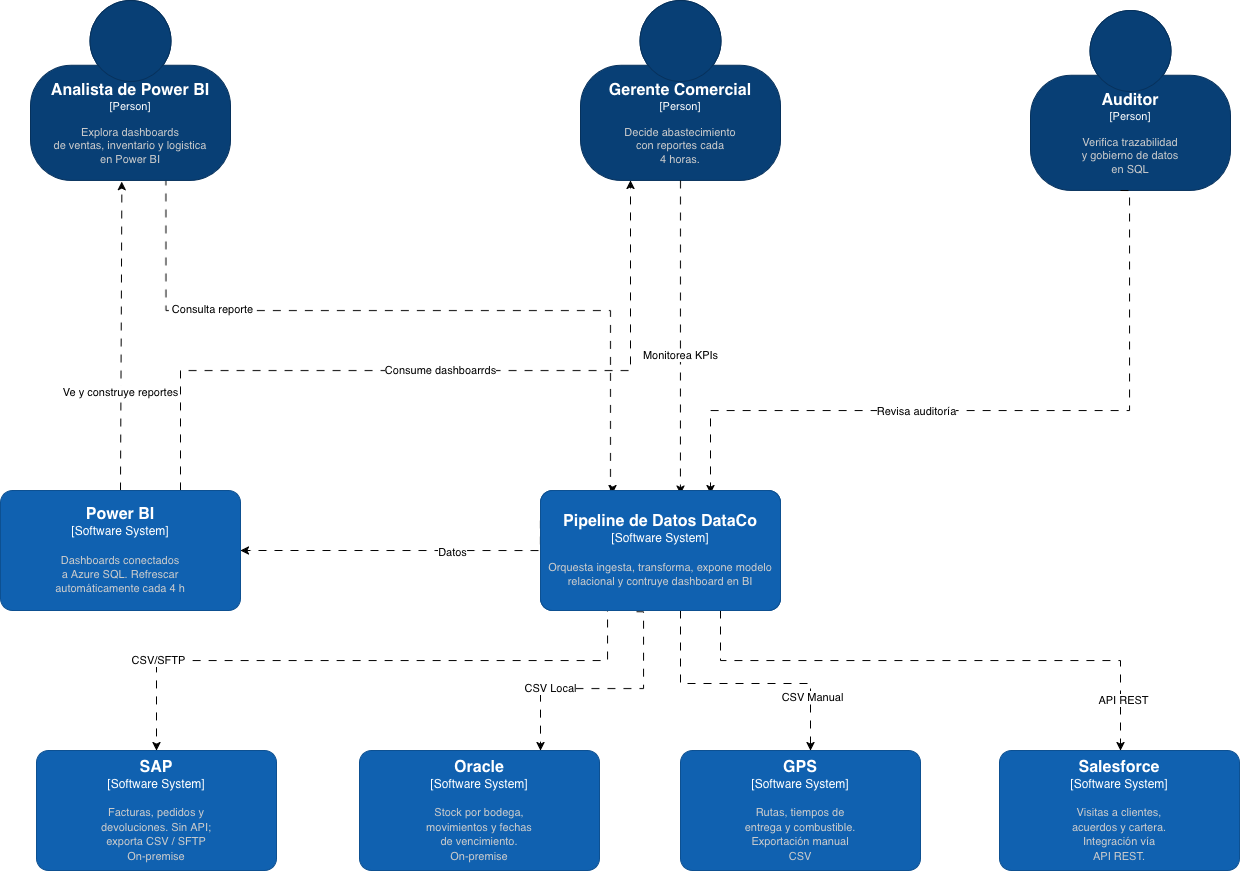
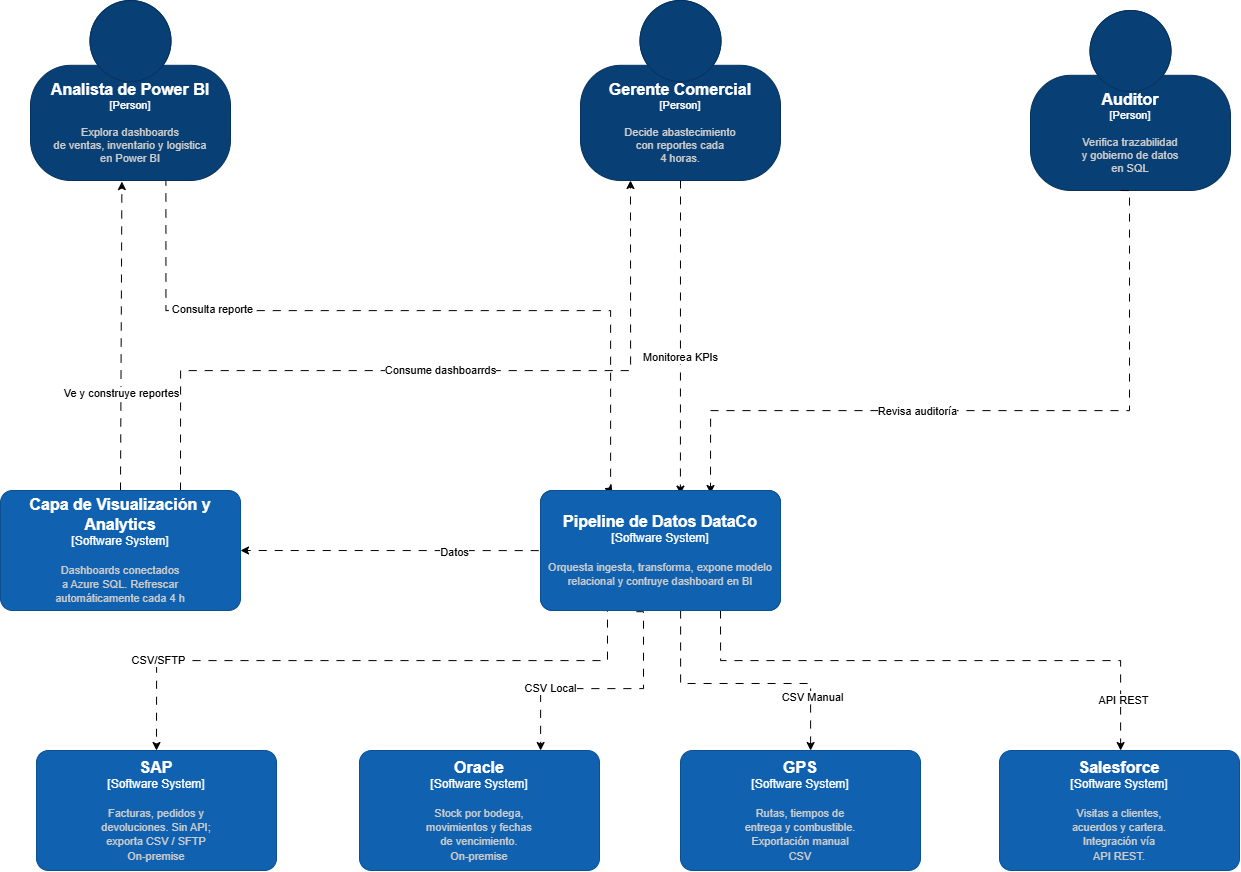
update:c4 model diagrams

diff --git a/README.md b/README.md
@@ -87,26 +87,23 @@ El diagrama de contexto muestra una visión general del Pipeline de datos de Dat
 </div>
 <br>
 
-### Analista de Power BI
-Este rol se encarga de analizar y visualizar los datos del negocio mediante dashboards e informes. Se conecta a Power BI, el cual obtiene la información desde el Pipeline de Datos DataCo, donde previamente se integran y transforman los datos provenientes de sistemas como SAP, Oracle, GPS y Salesforce. De esta manera, el analista no trabaja con datos crudos, sino con información ya limpia y estructurada.
+### Analista de Capa de Visualización y Analytics
+Este rol se encarga de analizar y visualizar los datos del negocio mediante dashboards e informes. Se conecta a la Capa de Visualización y Analytics, la cual obtiene la información desde el Pipeline de Datos DataCo, donde previamente se integran y transforman los datos provenientes de sistemas como SAP, Oracle, GPS y Salesforce. De esta manera, el analista no trabaja con datos crudos, sino con información ya limpia y estructurada.
 
-Dentro del proyecto, su función está en la etapa final del flujo de datos, ya que convierte toda la información procesada en conocimiento útil para el negocio. Sus dashboards y reportes son utilizados por el Gerente Comercial para la toma de decisiones, por lo que actúa como un puente entre los datos técnicos y el uso estratégico de la información
+Dentro del proyecto, su función está en la etapa final del flujo de datos, ya que convierte toda la información procesada en conocimiento útil para el negocio. Sus dashboards y reportes son utilizados por el Gerente Comercial para la toma de decisiones, por lo que actúa como un puente entre los datos técnicos y el uso estratégico de la información.
 
 ### Gerente Comercial
-El gerente comercial toma decisiones estratégicas basadas en información confiable y actualizada, accediendo a dashboards en Power BI donde visualiza indicadores clave del negocio como ventas e inventario.
+El gerente comercial toma decisiones estratégicas basadas en información confiable y actualizada, accediendo a dashboards en la Capa de Visualización y Analytics donde visualiza indicadores clave del negocio como ventas e inventario.
 
-Utiliza datos procesados por el Pipeline de Datos DataCo y almacenados en Azure SQL, los cuales provienen de sistemas como SAP ERP, Oracle Database y Salesforce CRM, para definir acciones comerciales y evaluar el desempeño.
+Utiliza datos procesados por el Pipeline de Datos DataCo y almacenados en el Almacén de Datos Analítico, los cuales provienen de sistemas como SAP ERP, Oracle Database y Salesforce CRM, para definir acciones comerciales y evaluar el desempeño.
 
-### Auditor 
-Este se encarga de garantizar que los datos de la empresa sean confiables y tengan trazabilidad. No consume dashboards de Power BI; su acceso es directo al sistema.
+### Auditor
+Este se encarga de garantizar que los datos de la empresa sean confiables y tengan trazabilidad. No consume dashboards de la Capa de Visualización y Analytics; su acceso es directo al sistema.
 
-**Revisar auditoría** sobre el Pipeline de Datos DataCo, verificando que cada transformación aplicada sobre los datos quede registrada y sea trazable.
-Esto incluye los logs de ejecución de Azure Data Factory y las tablas de auditoría en Azure SQL.
-Este rol es importante para el cumplimiento de las políticas internas de datos de DataCo.
+Revisar auditoría sobre el Pipeline de Datos DataCo, verificando que cada transformación aplicada sobre los datos quede registrada y sea trazable. Esto incluye los logs de ejecución del Orquestador de Datos y las tablas de auditoría en el Almacén de Datos Analítico. Este rol es importante para el cumplimiento de las políticas internas de datos de DataCo.
 
 ### Sistemas externos
-Los sistemas externos son las fuentes de datos que alimentan el pipeline.
-Todos envían la información hacia el sistema Pipeline.
+Los sistemas externos son las fuentes de datos que alimentan el pipeline. Todos envían la información hacia el sistema Pipeline.
 
 **SAP** Es on-premise, sin API. Exporta ventas, pedidos y devoluciones en CSV vía SFTP de forma manual.
 
@@ -116,7 +113,7 @@ Todos envían la información hacia el sistema Pipeline.
 
 **Salesforce** Funciona con API REST. Es el único sistema con integración automática. Contiene información de visitas, acuerdos y cartera.
 
-**Power BI** se conecta a Azure SQL y refresca automáticamente los datos cada 4 horas. Lo usa el Analista de BI para construir reportes y el Gerente Comercial para consultarlos.
+**La Capa de Visualización y Analytics** se conecta al Almacén de Datos Analítico y refresca automáticamente los datos cada 4 horas. Lo usa el Analista de BI para construir reportes y el Gerente Comercial para consultarlos.
 
 ### Diagrama de Contenedores (C2)
 El diagrama de contenedores permite hacer un "zoom" dentro del límite del sistema InsightPipeline para desglosar la arquitectura de software en sus aplicaciones y almacenes de datos individuales. En esta vista se detallan las responsabilidades distribuidas, las elecciones tecnológicas clave y cómo estos componentes se comunican entre sí para cumplir con los requerimientos de procesamiento y latencia de DataCo.
@@ -135,32 +132,39 @@ El diagrama de contenedores permite hacer un "zoom" dentro del límite del siste
 </div>
 <br>
 
-### Contenedor de Orquestación e Ingesta mediante Azure Data Factory
- Azure Data Factory cumple el papel de orquestador principal dentro del pipeline de datos de DataCo, ya que se encarga de coordinar y automatizar el flujo de información entre todos los sistemas del proyecto. Su función principal es conectar las diferentes fuentes de datos, controlar los procesos de carga y garantizar que la información llegue correctamente a cada etapa del sistema analítico.
+### Contenedor de Orquestación e Ingesta mediante Orquestador de Datos
 
-Azure Data Factory se relaciona directamente con los sistemas fuente como SAP, Oracle Database, Salesforce y el sistema GPS, desde donde extrae datos en formatos CSV, JSON o mediante APIs REST. Esta integración permite centralizar información que originalmente se encuentra distribuida y aislada entre diferentes plataformas
+El Orquestador de Datos cumple el papel de orquestador principal dentro del pipeline de datos de DataCo, ya que se encarga de coordinar y automatizar el flujo de información entre todos los sistemas del proyecto. Su función principal es conectar las diferentes fuentes de datos, controlar los procesos de carga y garantizar que la información llegue correctamente a cada etapa del sistema analítico.
 
-### Contenedor de Almacenamiento Persistente en Azure Data Lake Storage Gen2
-En el diagrama de contenedores se aprecia como Azure Data Lake Storage Gen2 actúa como el repositorio central y pilar de persistencia de los datos en InsightPipeline, permitiendo la transición de los datos desde un estado crudo hacia uno estructurado y optimizado. Su función principal es servir como zona de aterrizaje para la ingesta masiva de archivos CSV y JSON provenientes de fuentes heterogéneas como SAP, Oracle y GPS, los cuales son depositados allí bajo la orquestación de Azure Data Factory. Al implementar un espacio de nombres jerárquico, este componente facilita una organización eficiente que soporta el procesamiento de hasta 5 millones de registros, garantizando que la información esté disponible para las etapas posteriores de transformación dentro de los tiempos de rezago exigidos por el negocio.
+El Orquestador de Datos se relaciona directamente con los sistemas fuente como SAP, Oracle Database, Salesforce y el sistema GPS, desde donde extrae datos en formatos CSV, JSON o mediante APIs REST. Esta integración permite centralizar información que originalmente se encuentra distribuida y aislada entre diferentes plataformas.
 
 
-La integración técnica de este almacenamiento permite un ciclo de procesamiento fundamental donde Azure Databricks extrae los archivos en bruto para ejecutar notebooks de limpieza y estandarización, devolviendo posteriormente la información enriquecida en formato Parquet a una zona refinada. Esta arquitectura de capas no solo optimiza el rendimiento de las consultas analíticas que alimentan a Azure SQL Database, sino que también garantiza al Auditor la trazabilidad necesaria para validar cada transformación según las políticas de gobierno de datos de DataCo. De este modo, el sistema asegura que los activos de información sean confiables, escalables y estén listos para la toma de decisiones estratégicas.
+### Contenedor de Almacenamiento Persistente en Repositorio de Datos en Capas
 
-### Contenedor de Procesamiento y Transformación con Azure Databricks
-Azure Databricks se encarga de la transformación del pipeline de DataCo. Se ejecuta y es activado por Azure Data Factory mediante un trigger que inicia la ejecución de los notebooks de limpieza, estandarización y enriquecimiento de datos en Apache Spark.
+En el diagrama de contenedores se aprecia como el Repositorio de Datos en Capas actúa como el repositorio central y pilar de persistencia de los datos en InsightPipeline, permitiendo la transición de los datos desde un estado crudo hacia uno estructurado y optimizado. Su función principal es servir como zona de aterrizaje para la ingesta masiva de archivos CSV y JSON provenientes de fuentes heterogéneas como SAP, Oracle y GPS, los cuales son depositados allí bajo la orquestación del Orquestador de Datos. Al implementar un espacio de nombres jerárquico, este componente facilita una organización eficiente que soporta el procesamiento de hasta 5 millones de registros, garantizando que la información esté disponible para las etapas posteriores de transformación dentro de los tiempos de rezago exigidos por el negocio.
 
-Se relaciona directamente con Data Lake Storage Gen2 en ambas direcciones: primero, desde la zona raw lee y sube los archivos CSV/JSON crudos y escribe los datos transformados en formato Parquet en la zona curated. Este formato mejora el rendimiento de las consultas siguientes. Luego de completar las transformaciones Databricks carga los datos procesados (tablas) directamente en Azure SQL Database, donde quedan disponibles para ser consultados por Power BI.
+La integración técnica de este almacenamiento permite un ciclo de procesamiento fundamental donde el Motor de Procesamiento extrae los archivos en bruto para ejecutar notebooks de limpieza y estandarización, devolviendo posteriormente la información enriquecida en formato Parquet a una zona refinada. Esta arquitectura de capas no solo optimiza el rendimiento de las consultas analíticas que alimentan al Almacén de Datos Analítico, sino que también garantiza al Auditor la trazabilidad necesaria para validar cada transformación según las políticas de gobierno de datos de DataCo. De este modo, el sistema asegura que los activos de información sean confiables, escalables y estén listos para la toma de decisiones estratégicas.
 
 
-### Contenedor de Almacén Analítico en Azure SQL Database
-es un servicio administrado de base de datos relacional en la nube de Microsoft basado en el motor de SQL Server. Proporciona alta disponibilidad, escalabilidad automática, seguridad avanzada y administración simplificada sin necesidad de gestionar infraestructura física. En el diagrama, Azure SQL Database actúa como el repositorio analítico central donde se almacena el modelo dimensional de datos, permitiendo consultas optimizadas para reporting, análisis comercial y auditoría. Además, implementa control de acceso por roles y sirve como fuente de datos para los dashboards de Power BI y las consultas SQL realizadas por usuarios de negocio y auditores.
+### Contenedor de Procesamiento y Transformación con Motor de Procesamiento
 
-Azure Databricks se conecta con Azure SQL Database para cargar los datos previamente transformados y enriquecidos durante los procesos ETL. Una vez almacenada la información en Azure SQL Database, Power BI se conecta directamente para consumir las tablas analíticas y actualizar automáticamente los dashboards cada 4 horas. De esta manera, Power BI permite que los usuarios visualicen indicadores de ventas, inventario, logística y auditoría en tiempo real, apoyando la toma de decisiones estratégicas y el análisis operativo del negocio.
+El Motor de Procesamiento se encarga de la transformación del pipeline de DataCo. Se ejecuta y es activado por el Orquestador de Datos mediante un trigger que inicia la ejecución de los notebooks de limpieza, estandarización y enriquecimiento de datos en Apache Spark.
 
-### Contenedor de Visualización y Business Intelligence en Power BI
-Power BI es la herramienta utilizada para visualizar y analizar toda la información procesada en el pipeline de datos. Se conecta directamente con Azure SQL Database para consultar los datos ya organizados y actualizados automáticamente cada 4 horas.
+Se relaciona directamente con el Repositorio de Datos en Capas en ambas direcciones: primero, desde la zona raw lee y sube los archivos CSV/JSON crudos y escribe los datos transformados en formato Parquet en la zona curated. Este formato mejora el rendimiento de las consultas siguientes. Luego de completar las transformaciones el Motor de Procesamiento carga los datos procesados (tablas) directamente en el Almacén de Datos Analítico, donde quedan disponibles para ser consultados por la Capa de Visualización y Analytics.
 
-A través de dashboards interactivos, los analistas y gerentes pueden monitorear ventas, inventario, logística y abastecimiento en tiempo real. Además, Power BI permite crear reportes dinámicos, gráficos y métricas que facilitan la toma de decisiones comerciales.
+
+### Contenedor de Almacén Analítico en Almacén de Datos Analítico
+
+Es un servicio administrado de base de datos relacional en la nube de Microsoft basado en el motor de SQL Server. Proporciona alta disponibilidad, escalabilidad automática, seguridad avanzada y administración simplificada sin necesidad de gestionar infraestructura física. En el diagrama, el Almacén de Datos Analítico actúa como el repositorio analítico central donde se almacena el modelo dimensional de datos, permitiendo consultas optimizadas para reporting, análisis comercial y auditoría. Además, implementa control de acceso por roles y sirve como fuente de datos para los dashboards de la Capa de Visualización y Analytics y las consultas SQL realizadas por usuarios de negocio y auditores.
+
+El Motor de Procesamiento se conecta con el Almacén de Datos Analítico para cargar los datos previamente transformados y enriquecidos durante los procesos ETL. Una vez almacenada la información en el Almacén de Datos Analítico, la Capa de Visualización y Analytics se conecta directamente para consumir las tablas analíticas y actualizar automáticamente los dashboards cada 4 horas. De esta manera, la Capa de Visualización y Analytics permite que los usuarios visualicen indicadores de ventas, inventario, logística y auditoría en tiempo real, apoyando la toma de decisiones estratégicas y el análisis operativo del negocio.
+
+
+### Contenedor de Visualización y Business Intelligence en Capa de Visualización y Analytics
+
+La Capa de Visualización y Analytics es la herramienta utilizada para visualizar y analizar toda la información procesada en el pipeline de datos. Se conecta directamente con el Almacén de Datos Analítico para consultar los datos ya organizados y actualizados automáticamente cada 4 horas.
+
+A través de dashboards interactivos, los analistas y gerentes pueden monitorear ventas, inventario, logística y abastecimiento en tiempo real. Además, la Capa de Visualización y Analytics permite crear reportes dinámicos, gráficos y métricas que facilitan la toma de decisiones comerciales.
 
 También maneja seguridad mediante acceso por roles, asegurando que cada usuario vea únicamente la información correspondiente a su área. Finalmente, funciona como la capa visual del proyecto, transformando los datos técnicos del sistema en información clara, entendible y útil para el negocio.
 
@@ -224,7 +228,7 @@ Para finalizar el proceso, `load_warehouse.py` carga los datos en el Almacén de
 
 ---
 
-### Componentes del Contenedor Azure SQL Datebase
+### Componentes del Contenedor Almacén de Datos Analítico
 
 <br>
 <div align="center">
@@ -234,49 +238,54 @@ Para finalizar el proceso, `load_warehouse.py` carga los datos en el Almacén de
          width="85%">
     <figcaption>
       <br><br>
-      <i><b>Figure 6:</b> System Component Diagram.</i>
+      <i><b>Figure 6:</b> Diagram of the Analytical Data Warehouse Container System.</i>
     </figcaption>
   </figure>
 </div>
 <br>
 
-**Capa de integración JDBC / SQL Audit.**  
-Este componente actúa como interfaz de conexión segura entre los consumidores de datos (Power BI y herramientas externas) y Azure SQL. Utiliza JDBC, T-SQL, Azure AD y TLS 1.2. Recibe consultas vía JDBC/T‑SQL desde Power BI y otros clientes, se conecta al módulo de Roles y seguridad para validar permisos, y reenvía las consultas autorizadas al motor SQL subyacente. Intercambia consultas SQL, credenciales de usuario, metadatos de auditoría y conjuntos de resultados.
-
-**Roles y seguridad.**  
-Gestiona el control de acceso basado en roles (RBAC) y la seguridad a nivel de fila (RLS) mediante T‑SQL `GRANT` y vistas de seguridad integradas. Es validado por la Capa JDBC/SQL Audit antes de ejecutar cualquier consulta, y aplica políticas de lectura, escritura y DDL sobre las tablas `Fact_ventas`, `Fact_entregas`, `dim_producto` y las vistas analíticas. Intercambia roles de usuario, permisos sobre objetos y filtros de RLS por línea de negocio.
-
-**Fact_ventas.**  
-Tabla relacional en Azure SQL que almacena transacciones de facturación desde SAP. Su escritura es controlada por el rol `role_crl` (utilizado por Azure Data Factory o procesos ETL), mientras que la lectura se realiza mediante el rol `role_analyst` a través de vistas analíticas. Intercambia datos como facturas SAP, fecha, cliente y monto.
-
-**Fact_entregas.**  
-Tabla relacional en Azure SQL que registra eventos de GPS de rutas y tiempos de entrega. Se vincula lógicamente con `Fact_ventas` mediante correlación (por ejemplo, número de factura) y es consultada por las vistas analíticas para medir el cumplimiento de ruta. Intercambia información de GPS, ruta, tiempo y correlación con factura.
-
-**dim_producto.**  
-Tabla de dimensión en Azure SQL que provee datos maestros de producto, incluyendo códigos SAP, categoría y línea. Se relaciona con `Fact_ventas` mediante `cod_SAP` y sirve como fuente de datos para las vistas analíticas. Intercambia código SAP, categoría y línea de producto.
-
-**Vistas analíticas.**  
-Exponen métricas de negocio precalculadas, como ventas por región y cumplimiento de ruta, mediante vistas SQL materializadas o no materializadas. Son consumidas por Power BI a través de la Capa JDBC/SQL Audit y obtienen datos de `Fact_ventas`, `Fact_entregas` y `dim_producto`. Intercambian agregaciones de ventas e indicadores de logística.
-
-**Stored procedures.**  
-Ejecutan la lógica de carga (`usp_load_ventas`) y el control de calidad (`usp_rechaz_datos`) mediante procedimientos almacenados T‑SQL. Son invocados por Azure Data Factory durante los pipelines de ingestión y escriben en `Fact_ventas` y tablas de rechazos. Intercambian datos transformados, registros de error y conteos de filas cargadas.
-
-**Auditoría y logging.**  
-Registra todo acceso a datos y consultas por rol, con una retención de 90 días, utilizando tablas de auditoría como `audit_log_query_history` y posiblemente Azure SQL Auditing. Recibe eventos desde la Capa JDBC/SQL Audit y el motor SQL, y es consultable por el rol `role_audit`. Intercambia historial de consultas, usuario, timestamp y filas devueltas.
-
-**Azure Data Factory (ADF).**  
-Orquesta la ingesta y transformación de datos desde fuentes externas (SAP, GPS, Oracle) hacia Azure SQL. Utiliza pipelines, actividades Lookup y procedimientos almacenados. Ejecuta `usp_load_ventas` y `usp_rechaz_datos` en Azure SQL y se conecta a sistemas fuente. Intercambia datos crudos, comandos de ejecución de SPs y logs de actividad.
+**Capa de integración JDBC / SQL Audit.**
+Este componente actúa como interfaz de conexión segura entre los consumidores de datos (Capa de Visualización y Analytics y herramientas externas) y el Almacén de Datos Analítico. Utiliza JDBC, T-SQL, Azure AD y TLS 1.2. Recibe consultas vía JDBC/T-SQL desde la Capa de Visualización y Analytics y otros clientes, se conecta al módulo de Roles y seguridad para validar permisos, y reenvía las consultas autorizadas al motor SQL subyacente. Intercambia consultas SQL, credenciales de usuario, metadatos de auditoría y conjuntos de resultados.
 
 
-El **Gerente Comercial**, el **Analista Power BI**, el **Gerenciamiento de datos** y el **Auditor** son los principales actores externos. Los primeros tres se conectan a través de Power BI o clientes SQL para visualizar reportes y monitorear el sistema, mientras que el Auditor revisa los logs de auditoría y los permisos directamente.
+**Roles y seguridad.**
+Gestiona el control de acceso basado en roles (RBAC) y la seguridad a nivel de fila (RLS) mediante T-SQL `GRANT` y vistas de seguridad integradas. Es validado por la Capa JDBC/SQL Audit antes de ejecutar cualquier consulta, y aplica políticas de lectura, escritura y DDL sobre las tablas `Fact_ventas`, `Fact_entregas`, `dim_producto` y las vistas analíticas. Intercambia roles de usuario, permisos sobre objetos y filtros de RLS por línea de negocio.
+
+
+**Fact_ventas.**
+Tabla relacional en el Almacén de Datos Analítico que almacena transacciones de facturación desde SAP. Su escritura es controlada por el rol `role_crl` (utilizado por el Orquestador de Datos o procesos ETL), mientras que la lectura se realiza mediante el rol `role_analyst` a través de vistas analíticas. Intercambia datos como facturas SAP, fecha, cliente y monto.
+
+
+**Fact_entregas.**
+Tabla relacional en el Almacén de Datos Analítico que registra eventos de GPS de rutas y tiempos de entrega. Se vincula lógicamente con `Fact_ventas` mediante correlación (por ejemplo, número de factura) y es consultada por las vistas analíticas para medir el cumplimiento de ruta. Intercambia información de GPS, ruta, tiempo y correlación con factura.
+
+**dim_producto.**
+Tabla de dimensión en el Almacén de Datos Analítico que provee datos maestros de producto, incluyendo códigos SAP, categoría y línea. Se relaciona con `Fact_ventas` mediante `cod_SAP` y sirve como fuente de datos para las vistas analíticas. Intercambia código SAP, categoría y línea de producto.
+
+**Vistas analíticas.**
+Exponen métricas de negocio precalculadas, como ventas por región y cumplimiento de ruta, mediante vistas SQL materializadas o no materializadas. Son consumidas por la Capa de Visualización y Analytics a través de la Capa JDBC/SQL Audit y obtienen datos de `Fact_ventas`, `Fact_entregas` y `dim_producto`. Intercambian agregaciones de ventas e indicadores de logística.
+
+**Stored procedures.**
+Ejecutan la lógica de carga (`usp_load_ventas`) y el control de calidad (`usp_rechaz_datos`) mediante procedimientos almacenados T-SQL. Son invocados por el Orquestador de Datos durante los pipelines de ingestión y escriben en `Fact_ventas` y tablas de rechazos. Intercambian datos transformados, registros de error y conteos de filas cargadas.
+
+
+**Auditoría y logging.**
+Registra todo acceso a datos y consultas por rol, con una retención de 90 días, utilizando tablas de auditoría como `audit_log_query_history` y posiblemente SQL Auditing del Almacén de Datos Analítico. Recibe eventos desde la Capa JDBC/SQL Audit y el motor SQL, y es consultable por el rol `role_audit`. Intercambia historial de consultas, usuario, timestamp y filas devueltas.
+
+
+**Orquestador de Datos.**
+Orquesta la ingesta y transformación de datos desde fuentes externas (SAP, GPS, Oracle) hacia el Almacén de Datos Analítico. Utiliza pipelines, actividades Lookup y procedimientos almacenados. Ejecuta `usp_load_ventas` y `usp_rechaz_datos` en el Almacén de Datos Analítico y se conecta a sistemas fuente. Intercambia datos crudos, comandos de ejecución de SPs y logs de actividad.
+
+
+El **Gerente Comercial**, el **Analista de la Capa de Visualización y Analytics**, el **Gerenciamiento de datos** y el **Auditor** son los principales actores externos. Los primeros tres se conectan a través de la Capa de Visualización y Analytics o clientes SQL para visualizar reportes y monitorear el sistema, mientras que el Auditor revisa los logs de auditoría y los permisos directamente.
 
 #### Relaciones principales entre contenedores
 
-La Capa JDBC se relaciona con Roles y seguridad asegurando que toda consulta pase por un punto único de autenticación y autorización. Roles y seguridad aplica permisos de lectura, escritura y RLS sobre las tablas de hechos y dimensiones según la línea de negocio. Azure Data Factory invoca los stored procedures, desacoplando así la orquestación de la lógica de negocio. Las vistas analíticas encapsulan la lógica de negocio y agregan datos desde las tablas de hechos para un consumo eficiente en Power BI. Finalmente, la auditoría registra cada acceso desde la Capa JDBC para garantizar la trazabilidad.
+La Capa JDBC se relaciona con Roles y seguridad asegurando que toda consulta pase por un punto único de autenticación y autorización. Roles y seguridad aplica permisos de lectura, escritura y RLS sobre las tablas de hechos y dimensiones según la línea de negocio. El Orquestador de Datos invoca los stored procedures, desacoplando así la orquestación de la lógica de negocio. Las vistas analíticas encapsulan la lógica de negocio y agregan datos desde las tablas de hechos para un consumo eficiente en la Capa de Visualización y Analytics. Finalmente, la auditoría registra cada acceso desde la Capa JDBC para garantizar la trazabilidad.
 
 #### Flujo general de comunicación
 
-El flujo comienza con la ingesta y transformación: Azure Data Factory extrae datos de SAP (facturas), GPS (entregas) y Oracle (productos), y ejecuta los stored procedures `usp_load_ventas` y `usp_rechaz_datos` para cargar las tablas `Fact_ventas`, `Fact_entregas` y `dim_producto`. Luego, en la preparación analítica, sobre estas tablas base se crean las vistas analíticas (`ww_ventas_region`, `ww_complimiento_ruta`), que aplican reglas de negocio y RLS. En el acceso a datos, un Analista Power BI conecta su dashboard mediante JDBC/T‑SQL hacia la Capa de integración; esta capa delega la autenticación en Azure AD y verifica los roles contra el componente Roles y seguridad. Si el usuario posee el rol `role_analyst`, se ejecuta la consulta sobre las vistas analíticas y el motor SQL aplica el filtrado por línea de negocio. Paralelamente, cada consulta (exitosa o fallida) se escribe en `audit_log_query_history` para auditoría, y un Auditor con `role_audit` puede consultar este historial directamente. Finalmente, en la visualización, el Gerente Comercial y el Gerenciamiento de datos ven reportes predefinidos en Power BI sin acceder directamente a las tablas base.
+El flujo comienza con la ingesta y transformación: el Orquestador de Datos extrae datos de SAP (facturas), GPS (entregas) y Oracle (productos), y ejecuta los stored procedures `usp_load_ventas` y `usp_rechaz_datos` para cargar las tablas `Fact_ventas`, `Fact_entregas` y `dim_producto`. Luego, en la preparación analítica, sobre estas tablas base se crean las vistas analíticas (`ww_ventas_region`, `ww_complimiento_ruta`), que aplican reglas de negocio y RLS. En el acceso a datos, un Analista de la Capa de Visualización y Analytics conecta su dashboard mediante JDBC/T-SQL hacia la Capa de integración; esta capa delega la autenticación en Azure AD y verifica los roles contra el componente Roles y seguridad. Si el usuario posee el rol `role_analyst`, se ejecuta la consulta sobre las vistas analíticas y el motor SQL aplica el filtrado por línea de negocio. Paralelamente, cada consulta (exitosa o fallida) se escribe en `audit_log_query_history` para auditoría, y un Auditor con `role_audit` puede consultar este historial directamente. Finalmente, en la visualización, el Gerente Comercial y el Gerenciamiento de datos ven reportes predefinidos en la Capa de Visualización y Analytics sin acceder directamente a las tablas base.
 
 ### Componentes del Contenedor Power BI
 